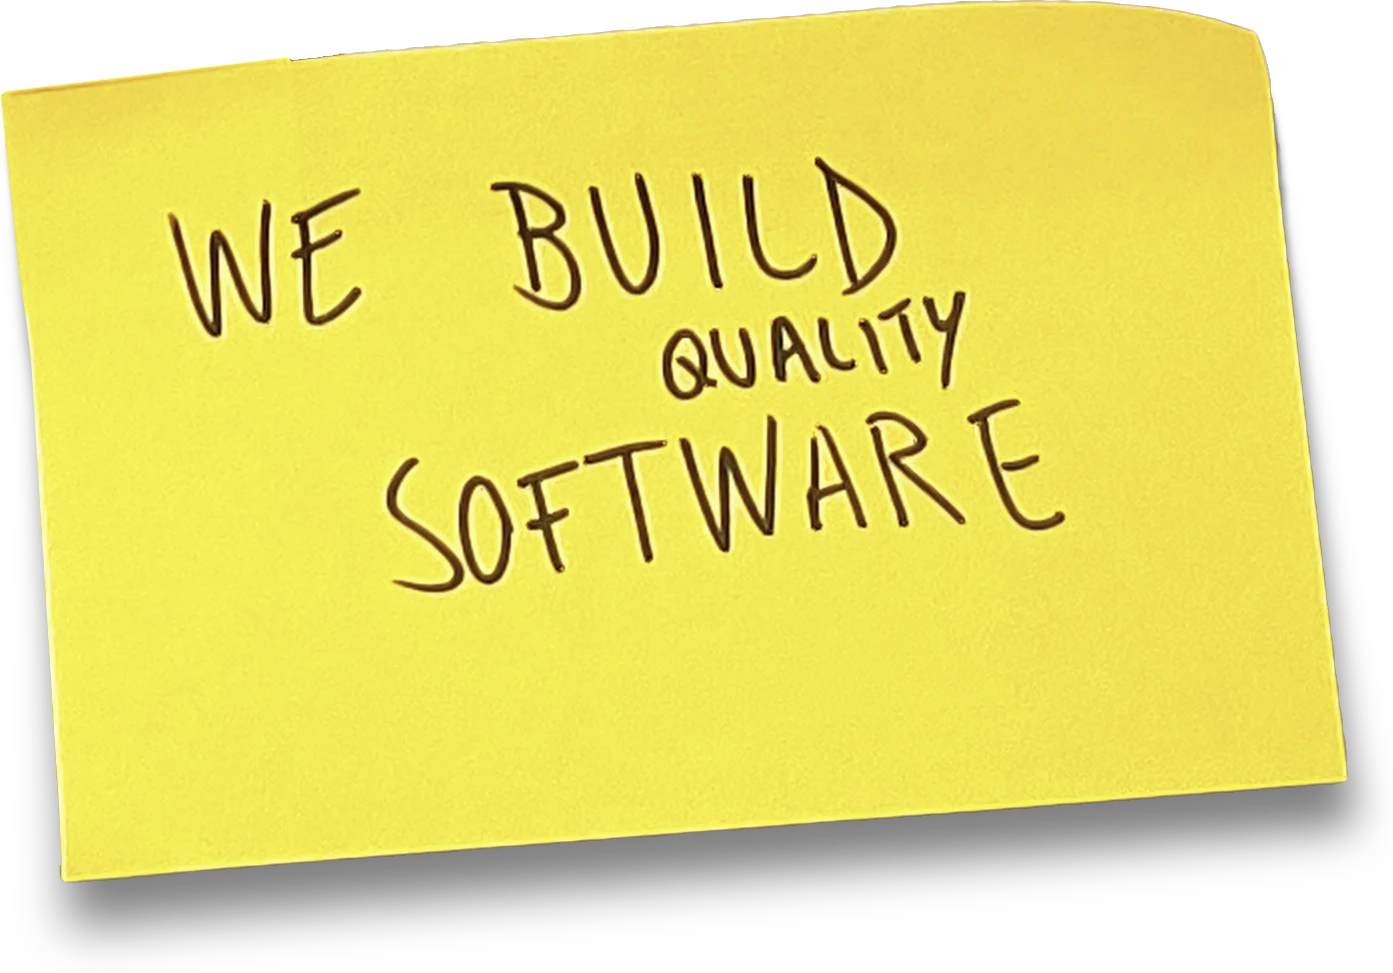
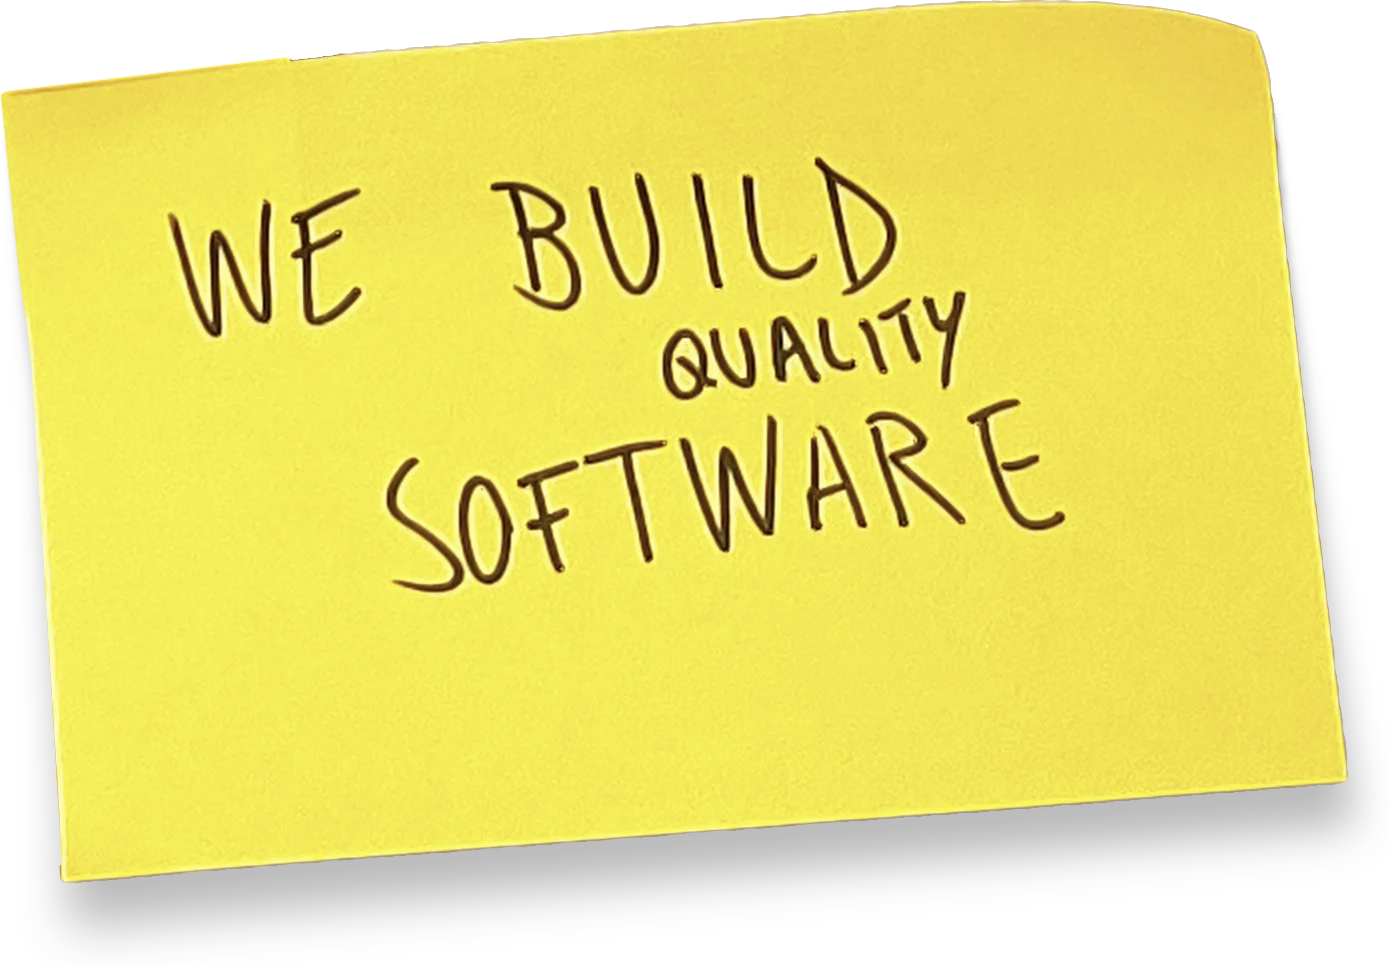
Sharpen the post-its on 1x screens, and add a sketchbook sticker to the map (#77)
* Sharpen the post-its on 1x screens, and fade the value-proposition drawing

The post-its were generated 144 px wide for 1x screens but drawn up to
168 px (blue) and 156 px (yellow), so a 1x monitor enlarged them and they
went soft. Each is now generated at the top of its width knob, and the map
script places drawings and post-its on whole pixels so they aren't
resampled.

Also draws the value-proposition drawing in --ink-faint, and trims
comments in tokens.css.

* Add a sketchbook sticker to the map

A photo of an open sketchbook lands like the post-its, after them in
decorOrder, at a random free spot, smaller than the portrait and with its
drop shadow. Each page load tilts it within ±7° (data-tilt, --notebook-tilt
and --notebook-tilt-range). It keeps 48 px from the portrait and the
post-its where it can (KNOBS.decorBerth), and closer only when nothing
else fits.

measureDecor now centres a picture on its untilted frame and sizes it by
the box around it as tilted, so a rotated image lands where it's measured.

* Swap in new sketchbook and post-it photos, and enlarge the sketchbook

The post-it photos now carry a softer shadow of their own. The sketchbook
is a new cut-out, and grows a little: --notebook-width tops out at 9rem,
and its image is generated 144 px wide to match.

* Enlarge the sketchbook a little more

--notebook-width now tops out at 9.5rem, and its image is generated
152 px wide to match, so a 1x screen draws it pixel for pixel.
[…]

diff --git a/src/scripts/nav-diagram.ts b/src/scripts/nav-diagram.ts
@@ -76,18 +76,30 @@ const KNOBS = {
    *  one along the chain. A connector starts `lineLag` after the later of its
    *  two markers; the floating rings land last, `ringStep` apart. */
   entrance: { first: 40, step: 50, lineLag: 40, ringStep: 90 },
-  /** The drawings on the texture and the post-it note: space each keeps from
-   *  markers, rings, connectors and the others, and from the canvas edge, how
-   *  many random spots it tries before staying hidden, and the most of the
-   *  canvas they and the portrait sticker may cover together, so a small
-   *  screen isn't crowded. Their size is in index.astro. */
+  /** The drawings on the texture, the post-its and the sketchbook: space
+   *  each keeps from markers, rings, connectors and the others, and from the
+   *  canvas edge, how many random spots it tries before staying hidden, and
+   *  the most of the canvas they and the portrait sticker may cover together,
+   *  so a small screen isn't crowded. Their size is in index.astro. */
   decor: { gap: 8, edge: 8, tries: 400, coverage: 0.15 },
   /** The order they claim room in, by file name (`post-it` is the note). Each
    *  shows only while there's room and coverage left, and once one is left
    *  out, so is everything after it, except the `decorAlways` ones, which
    *  show whenever there's room. A drawing not listed comes last. */
-  decorOrder: ['flag', 'post-it', 'post-it-yellow', 'proposta-de-valor', 'compass', 'kraken'],
+  decorOrder: [
+    'flag',
+    'post-it',
+    'post-it-yellow',
+    'notebook',
+    'proposta-de-valor',
+    'compass',
+    'kraken',
+  ],
   decorAlways: ['flag'],
+  /** Extra space, by name, a decoration would rather keep from the portrait
+   *  sticker and the decorations already down. It lands closer only when
+   *  nothing that far fits. */
+  decorBerth: { notebook: 48 },
   /** Notes glued under another, by name. Each lands only with the note it's
    *  under, which covers one of its top corners, picked at random on each
    *  landing, by `glueOverlap` of the top note's own width and height. */
@@ -164,8 +176,8 @@ type Rect = { left: number; top: number; right: number; bottom: number };
  *  popup. */
 type Side = 'bottom' | 'top' | 'right' | 'left' | 'center';
 
-/** A drawing on the texture, or the post-it note, and where its centre sits
- *  once it has landed. */
+/** A drawing on the texture, a post-it or the sketchbook, and where its
+ *  centre sits once it has landed. */
 type Decor = { el: SVGSVGElement | HTMLImageElement; spot: { x: number; y: number } | null };
 
 const SVG_NS = 'http://www.w3.org/2000/svg';
@@ -175,8 +187,15 @@ export function initDiagram(root: HTMLElement) {
   if (!links) return;
   const svgEl: SVGSVGElement = links;
   const decor: Decor[] = [
-    ...root.querySelectorAll<SVGSVGElement | HTMLImageElement>('.decor, .post-it'),
+    ...root.querySelectorAll<SVGSVGElement | HTMLImageElement>('.decor, .post-it, .notebook'),
   ].map((el) => ({ el, spot: null }));
+  // A tilted one's tilt, within the range index.astro gives it, picked once
+  // per page load, before anything measures it.
+  for (const { el } of decor) {
+    if (el.hasAttribute('data-tilt')) {
+      el.style.setProperty('--decor-rt', (Math.random() * 2 - 1).toFixed(3));
+    }
+  }
   const ruler = root.querySelector<SVGSVGElement>('.ruler');
   const sticker = root.querySelector<HTMLElement>('.sticker');
   // The sticker's spot and tilt within the ranges index.astro gives them, picked
@@ -1058,14 +1077,18 @@ export function initDiagram(root: HTMLElement) {
   }
 
   /** Where a decoration's drawing sits inside its frame. The drawing is what has
-   *  to stay clear, not the empty margins around it. A picture (the post-it)
-   *  fills its frame. */
+   *  to stay clear, not the empty margins around it. A picture (a post-it, the
+   *  sketchbook) fills its frame; a tilted one's box is the one around it as
+   *  tilted, about the middle of its untilted frame. */
   function measureDecor(el: SVGSVGElement | HTMLImageElement): Box {
     const frame = el.getBoundingClientRect();
     if (el instanceof HTMLImageElement) {
-      const halfX = frame.width / 2;
-      const halfY = frame.height / 2;
-      return { x: halfX, y: halfY, halfX, halfY };
+      return {
+        x: el.offsetWidth / 2,
+        y: el.offsetHeight / 2,
+        halfX: frame.width / 2,
+        halfY: frame.height / 2,
+      };
     }
     const parts = [...el.children]
       .map((part) => part.getBoundingClientRect())
@@ -1165,13 +1188,19 @@ export function initDiagram(root: HTMLElement) {
 
     /** Where the drawing at `items[at]` can go, with the note glued under it
      *  when `stuck` is given: first clear of the spots held by those after
-     *  it, and of the room a balloon after it wants beside the sticker;
-     *  failing that, anywhere clear. A balloon tries beside the sticker before
+     *  it, of the room a balloon after it wants beside the sticker, and of
+     *  its `KNOBS.decorBerth`; failing that, anywhere clear. A balloon tries beside the sticker before
      *  anywhere else. */
     function findSpot(at: number, stuck?: Item) {
       const { d, ink } = items[at];
       const later = items.slice(at + 1).filter((o) => o !== stuck);
       const soft: Box[] = later.flatMap((o) => (o.d.spot ? [{ ...o.ink, ...o.d.spot }] : []));
+      const berth = (KNOBS.decorBerth as Record<string, number>)[nameOf(d)] ?? 0;
+      if (berth) {
+        for (const b of portrait ? [portrait, ...down] : down) {
+          soft.push({ ...b, halfX: b.halfX + berth, halfY: b.halfY + berth });
+        }
+      }
       const balloon = later.find((o) => isBalloon(o.d) && !o.d.spot);
       if (portrait && balloon) {
         soft.push({
@@ -1213,6 +1242,8 @@ export function initDiagram(root: HTMLElement) {
     let open = true;
     /** Glued notes already landed with the note over them. */
     const landed = new Set<Decor>();
+    /** The boxes of the decorations down so far. */
+    const down: Box[] = [];
     const held = ({ d, ink }: Item) => (d.spot && fits(d.spot.x, d.spot.y, ink) ? d.spot : null);
 
     /** Shows `d` at `spot`, or hides it for `null`. One whose spot hasn't
@@ -1225,11 +1256,14 @@ export function initDiagram(root: HTMLElement) {
       }
       room -= area(ink);
       blocks.push({ ...ink, ...spot });
+      down.push({ ...ink, ...spot });
       if (spot === d.spot) return;
       d.spot = spot;
       d.el.removeAttribute('data-placed');
-      d.el.style.setProperty('--decor-x', `${spot.x - ink.x}px`);
-      d.el.style.setProperty('--decor-y', `${spot.y - ink.y}px`);
+      // Whole pixels: a picture moved by a fraction of one is resampled, and
+      // a post-it goes soft on a 1x screen.
+      d.el.style.setProperty('--decor-x', `${Math.round(spot.x - ink.x)}px`);
+      d.el.style.setProperty('--decor-y', `${Math.round(spot.y - ink.y)}px`);
       // Reading layout ends the last fade, so this one starts from nothing.
       void d.el.getBoundingClientRect();
       d.el.setAttribute('data-placed', '');

diff --git a/src/styles/tokens.css b/src/styles/tokens.css
@@ -6,15 +6,9 @@
   --paper-2: #f4f4f4;
   --ink: #111;
   --ink-2: #525252;
-
-  /* Tertiary text, the lightest text colour: keep it at WCAG AA (4.5:1) or
-     above on both papers. */
   --ink-3: #686868;
-
-  /* Faint ink for decoration and disabled controls; never text. */
   --ink-faint: #a8a8a8;
 
-  /* The drawings on the map's texture; lighter still, and never text. */
   --ink-decor: #d4d4d4;
   --line-soft: rgb(0 0 0 / 4%);
   --line: rgb(0 0 0 / 8%);

diff --git a/README.md b/README.md
@@ -66,9 +66,9 @@ Each page owns its markup and styles. Values worth tuning are named knobs at the
 | `<head>`, metadata, CSP, page shell | `src/layouts/Base.astro` |
 | Site URL, base path, fonts, redirects from old addresses | `astro.config.mjs` |
 | Home: markers, card copy, preview alt text, the chain they connect in | `src/diagram.config.ts` |
-| Home: look, and knobs for the texture, markers, cards, rings, previews, popups, drawings, sticker, post-its and ruler | the top of the `<style>` in `src/pages/index.astro` |
+| Home: look, and knobs for the texture, markers, cards, rings, previews, popups, drawings, sticker, post-its, sketchbook and ruler | the top of the `<style>` in `src/pages/index.astro` |
 | Home: marker spacing, connector shapes, where cards open, entrance timing, physics, which drawings show first and how crowded the map may get | `KNOBS` and `SIM` at the top of `src/scripts/nav-diagram.ts` |
-| Home: the drawings, the ruler, the portrait sticker, the post-its, the case-study previews | `src/assets/decor/`, `src/assets/ruler.svg`, `src/assets/sticker.png`, `src/assets/post-it.webp`, `src/assets/post-it-yellow.webp`, `src/assets/previews/<marker id>.png` |
+| Home: the drawings, the ruler, the portrait sticker, the post-its, the sketchbook, the case-study previews | `src/assets/decor/`, `src/assets/ruler.svg`, `src/assets/sticker.png`, `src/assets/post-it.webp`, `src/assets/post-it-yellow.webp`, `src/assets/notebook.webp`, `src/assets/previews/<marker id>.png` |
 | About: look, print rules, and the `--cv-*` spacing knobs | `src/pages/about.astro` |
 | About: content, and which fields it takes | `src/content/cv.md`, `src/content.config.ts` |
 | Case study: text, images and videos | `src/content/projects/<slug>.mdx`, `src/assets/projects/<slug>/` |
@@ -141,7 +141,7 @@ A lower `-crf` is sharper and bigger: 22 suits a short video, and a long, busy o
 
 4. Give it a place in `decorOrder` at the top of `src/scripts/nav-diagram.ts`, which says which drawings show first when room is short. Without one, it comes last.
 
-Each drawing, and each post-it, gets a random free spot once the map settles; the yellow post-it is glued under the blue one, which covers one of its top corners (`glued` in `KNOBS`). They claim room in `decorOrder` until the canvas is covered as far as `KNOBS.decor.coverage` allows; once one is left out, so is everything after it, except those in `decorAlways`. One with no room stays hidden, which for a big drawing can mean never on a phone.
+Each drawing, each post-it and the sketchbook gets a random free spot once the map settles; the yellow post-it is glued under the blue one, which covers one of its top corners (`glued` in `KNOBS`), and the sketchbook keeps its distance from the post-its and the portrait where it can (`decorBerth`). They claim room in `decorOrder` until the canvas is covered as far as `KNOBS.decor.coverage` allows; once one is left out, so is everything after it, except those in `decorAlways`. One with no room stays hidden, which for a big drawing can mean never on a phone.
 
 ### Lock a case study
 

diff --git a/AGENTS.md b/AGENTS.md
@@ -33,7 +33,7 @@ CI runs lint, check:docs, check and build on every pull request to `main`, and d
   - The markers wait for the script. Without `is-mounted` by `--fallback-delay`, or with `data-failed`, the CSS swaps in `.fallback`, a plain list of the map's links.
   - Anything fixed on the canvas must be reported to the solver, as the ruler and the sticker (`stickerBox()`) are to `relaxAnchors()`, `resolveOverlaps()`, `relaxFloatingFromEdges()` and `settleDecor()`.
   - Every SVG in `src/assets/decor/` lands on the map through an `import.meta.glob`, drawn in `currentColor`, with a `--decor-<file>` width knob and a `--decor-<file>-color` colour knob (`--ink-decor` without one). Its frame includes margins, and `settleDecor()` measures the drawing, not the frame, so don't crop it. Inline SVGs carry zero or small `width`/`height` attributes, so a page painted before its CSS never shows them full size.
-  - The drawings and the post-its (`data-decor` names them) claim room in `KNOBS.decorOrder`, capped by `KNOBS.decor.coverage`; a note in `KNOBS.glued` lands only under a top corner of the one it names; the portrait sticker, the ruler, the markers and the rings always show, and so does whatever `decorAlways` lists, when there's any room.
+  - The drawings, the post-its and the sketchbook (`data-decor` names them) claim room in `KNOBS.decorOrder`, capped by `KNOBS.decor.coverage`; a note in `KNOBS.glued` lands only under a top corner of the one it names; the portrait sticker, the ruler, the markers and the rings always show, and so does whatever `decorAlways` lists, when there's any room.
   - A preview needs both an image in `src/assets/previews/` named after the marker's id and `preview` alt text in the config; the build fails on one without the other.
   - The simulation stops when nothing moves, measured as distance travelled, not force: a ring can rest in balance between its anchor's pull and a marker's push.
 - The mini-map (`src/components/MiniMap.astro`) reads `getDiagramNodes()` and `diagramChain`; it has no list of its own.
